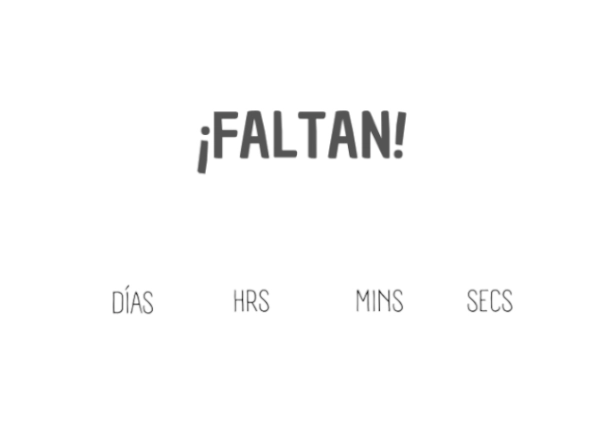
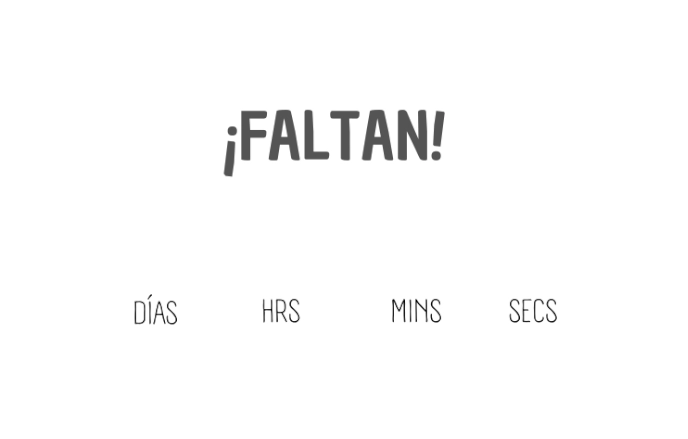
feat: Add latest changes

diff --git a/components/countdown2.js b/components/countdown2.js
@@ -1,0 +1,251 @@
+// components/countdown.js
+export function createCountdown({
+  target, // Date o string ej: '2026-01-15T00:00:00-06:00'
+  bgSrc = "./images/countdown-bg.png",
+  pill = {
+    // estilo de las “píldoras” (rosa)
+    height: "56px",
+    minWidth: "88px",
+    radius: "999px",
+    color: "#ffffff", // rosa
+    paddingInline: "16px",
+    gapDigits: "6px",
+  },
+  gapBetweenPills = "16px",
+  scaleWidth = "min(92vw, 720px)", // ancho máximo del componente
+  digitsPath = (d) => `./digits/${d}.webp`, // mapping a partir del dígito
+  zeroPad = { days: 2, hours: 2, minutes: 2, seconds: 2 }, // padding por campo
+  labels = ["Días", "Horas", "Minutos", "Segundos"], // solo si NO están en el fondo
+  showLabels = false, // déjalo en false si el fondo ya trae texto
+}) {
+  // Raíz
+  const root = document.createElement("div");
+  root.className = "cd-root";
+  root.style.setProperty("--cd-width", scaleWidth);
+  root.style.setProperty("--cd-gap-pills", gapBetweenPills);
+  root.style.setProperty("--cd-pill-h", pill.height);
+  root.style.setProperty("--cd-pill-minw", pill.minWidth);
+  root.style.setProperty("--cd-pill-radius", pill.radius);
+  root.style.setProperty("--cd-pill-color", pill.color);
+  root.style.setProperty("--cd-pill-padx", pill.paddingInline);
+  root.style.setProperty("--cd-digits-gap", pill.gapDigits);
+  // dentro de createCountdown, tras crear 'root'
+  const DESIGN_W = 720; // ancho base con el que hiciste el layout
+  function setScale() {
+    const w = root.clientWidth || DESIGN_W;
+    const k = Math.max(0.5, Math.min(2, w / DESIGN_W)); // límites opcionales
+    root.style.setProperty("--cd-scale", k);
+  }
+
+  // observa cambios de tamaño del componente
+  if (typeof ResizeObserver !== "undefined") {
+    const ro = new ResizeObserver(setScale);
+    ro.observe(root);
+  } else {
+    // fallback simple
+    window.addEventListener("resize", setScale);
+  }
+  setScale();
+
+  // Fondo
+  const bg = document.createElement("img");
+  bg.className = "cd-bg";
+  bg.src = bgSrc;
+  bg.alt = "";
+
+  bg.onload = () => {
+    // relación de aspecto del arte del fondo (evita saltos en iOS)
+    const w = bg.naturalWidth || 720;
+    const h = bg.naturalHeight || 430;
+    root.style.setProperty("--cd-ar", `${w} / ${h}`);
+
+    // Rectángulo (en %) donde va la fila de pastillas dentro del fondo
+    // Ajusta estos 4 números si tu PNG cambia: left, right, top, bottom (porcentaje).
+    root.style.setProperty("--cd-box-left", "8"); // % desde el borde izquierdo
+    root.style.setProperty("--cd-box-right", "8"); // % desde el borde derecho
+    root.style.setProperty("--cd-box-top", "43"); // % desde arriba
+    root.style.setProperty("--cd-box-bottom", "35"); // % desde abajo  => alto ≈ 22%
+  };
+
+  root.appendChild(bg);
+
+  // Capa de UI (píldoras + dígitos) — centrada sobre el fondo
+  const layer = document.createElement("div");
+  layer.className = "cd-layer";
+  root.appendChild(layer);
+
+  // 4 contenedores (píldoras)
+  const slots = ["days", "hours", "minutes", "seconds"].map(() => {
+    const pillEl = document.createElement("div");
+    pillEl.className = "cd-pill";
+    pillEl.setAttribute("role", "group");
+    pillEl.style.userSelect = "none";
+    pillEl.style.webkitUserDrag = "none";
+    layer.appendChild(pillEl);
+    return pillEl;
+  });
+
+  // Etiquetas (si no vienen en tu imagen de fondo)
+  if (showLabels) {
+    const labelsRow = document.createElement("div");
+    labelsRow.className = "cd-labels";
+    labels.forEach((text) => {
+      const span = document.createElement("span");
+      span.textContent = text;
+      labelsRow.appendChild(span);
+    });
+    root.appendChild(labelsRow);
+  }
+
+  // Render de un número con imágenes SVG por dígito
+  function renderNumber(pillEl, n, padTo) {
+    const str = String(n).padStart(padTo, "0");
+    // Limpia y vuelve a poner los dígitos
+    pillEl.replaceChildren();
+    const row = document.createElement("div");
+    row.className = "cd-digit-row";
+    for (const ch of str) {
+      const img = document.createElement("img");
+      img.className = "cd-digit";
+      img.src = digitsPath(ch);
+      img.alt = ch;
+      img.decoding = "async";
+      img.loading = "eager"; // o 'lazy' si prefieres
+      img.style.userSelect = "none";
+      img.style.webkitUserDrag = "none";
+      row.appendChild(img);
+    }
+    pillEl.appendChild(row);
+  }
+
+  // Lógica de tiempo
+  const targetTime =
+    target instanceof Date ? target.getTime() : new Date(target).getTime();
+
+  function tick() {
+    const now = Date.now();
+    let diff = Math.max(0, targetTime - now);
+
+    const days = Math.floor(diff / (1000 * 60 * 60 * 24));
+    diff -= days * (1000 * 60 * 60 * 24);
+    const hours = Math.floor(diff / (1000 * 60 * 60));
+    diff -= hours * (1000 * 60 * 60);
+    const minutes = Math.floor(diff / (1000 * 60));
+    diff -= minutes * (1000 * 60);
+    const seconds = Math.floor(diff / 1000);
+
+    renderNumber(slots[0], days, zeroPad.days ?? 2);
+    renderNumber(slots[1], hours, zeroPad.hours ?? 2);
+    renderNumber(slots[2], minutes, zeroPad.minutes ?? 2);
+    renderNumber(slots[3], seconds, zeroPad.seconds ?? 2);
+
+    if (targetTime - now <= 0) clearInterval(timer);
+  }
+
+  const timer = setInterval(tick, 1000);
+  tick(); // primer render inmediato
+
+  return root;
+}
+
+// —— CSS una sola vez
+const STYLE_ID = "cd-style";
+if (!document.getElementById(STYLE_ID)) {
+  const style = document.createElement("style");
+  style.id = STYLE_ID;
+  style.textContent = `
+.cd-root{
+  position: relative;
+  width: var(--cd-width, min(80vw, calc(var(--device-w, 430px) * 0.80)));
+  margin-inline: auto;
+  display: block;
+  user-select: none;
+  /* relación de aspecto igual al fondo (se setea en JS); fallback aproximado */
+  aspect-ratio: var(--cd-ar, 720 / 430);
+  --k: var(--cd-scale, 1);
+}
+
+.cd-bg{
+  position: absolute;
+  inset: 0;
+  width: 100%;
+  height: 100%;
+  object-fit: contain;   /* respeta márgenes del arte */
+  display: block;
+  pointer-events: none;
+  user-select: none;
+  -webkit-user-drag: none;
+}
+
+/* Capa con las pastillas centrada y con ajuste fino vertical */
+.cd-layer{
+  position: absolute;
+  left: 50%;
+  top: var(--cd-layer-top, 50%);   /* ajustable en JS: 50–56% según tu PNG */
+  transform: translate(-50%, -50%);
+  width: 100%;
+  height: auto;
+  display: flex;
+  align-items: center;
+  justify-content: center;
+  gap: calc(var(--k) * 32px);
+  max-width: 86%;                /* evita que toque los bordes dorados */
+}
+
+.cd-pill{
+  min-width: calc(var(--k) * 30px);
+  min-height: calc(var(--k) * 90px);
+
+  /* 👇 forma “panel” como la imagen */
+  border-radius: calc(var(--k) * 16px); /* o usa var(--cd-pill-radius) si prefieres */
+  padding-inline: calc(var(--k) * 16px);
+  background: var(--cd-pill-color, rgba(255,255,255));
+
+  /* sin borde dorado */
+  /*border: 1px solid rgba(255,255,255,.65);*/
+
+  /* look vidrio / papel */
+  backdrop-filter: blur(6px);
+  -webkit-backdrop-filter: blur(6px);
+
+  box-shadow:
+    0 1px 0 rgba(255,255,255,.55) inset,
+    0 10px 25px rgba(0,0,0,.12);
+
+  display:flex;
+  align-items: center;
+  justify-content: center;
+
+  /* opcional: para que se vea más “limpio” */
+  overflow: hidden;
+}
+
+
+.cd-digit-row{
+  display: flex;
+  align-items: center;
+  justify-content: center;
+  gap: 0;
+  max-height: calc(var(--k) * 10px);
+}
+
+.cd-digit{
+  max-height: calc(var(--k) * 30px);
+  width: auto;
+  display: block;
+  object-fit: contain;
+}
+
+.cd-labels{
+  display:flex;
+  justify-content:center;
+  gap: clamp(calc(var(--k) * 12px), 5vmin, calc(var(--k) * 40px));
+  margin-top: calc(var(--k) * 10px);
+  font: 600 clamp(calc(var(--k) * 12px), 3.2vmin, calc(var(--k) * 16px))/1.3
+        ui-sans-serif, system-ui, -apple-system, "Segoe UI", Roboto, "Helvetica Neue", Arial;
+  opacity:.9;
+}
+
+  `;
+  document.head.appendChild(style);
+}

diff --git a/index.html b/index.html
@@ -4,7 +4,7 @@
 <head>
   <meta charset="utf-8" />
   <meta name="viewport" content="width=device-width, initial-scale=1" />
-  <title>Bautizo Adolfito</title>
+  <title>XV Fedra</title>
   <link rel="icon" type="image/x-icon" href="./images/icon.png" />
   <style>
     :root {
@@ -35,7 +35,7 @@
   <script type="module">
     import { createHeroBlock } from './blocks/hero.js';
     import { createStack } from './blocks/stack.js';
-    import { createCountdown } from './components/countdown.js';
+    import { createCountdown } from './components/countdown2.js';
     import { initParallax, initReveal } from './lib/scrollEffects.js';
     import { initGuestModal } from './components/guestModal.js';
     import { initAudioPlayer } from './components/audioPlayer.js';
@@ -237,7 +237,7 @@
                 zeroPad: { days: 2, hours: 2, minutes: 2, seconds: 2 },
                 //showLabels: true,
                 // clave: atarlo a tu "device width"
-                scaleWidth: 'min(80vw, calc(var(--device-w, 430px) * 0.90))',
+                scaleWidth: 'min(80vw, calc(var(--device-w, 430px)))',
                 
               })
             },

diff --git a/components/guestModal.js b/components/guestModal.js
@@ -146,7 +146,7 @@ body.modal-open{ overflow:hidden; touch-action:none; }
     <div class="gm-content">
       <form id="guest-form" novalidate>
         <h3 style="margin:4px 0 8px 0;">Confirmación de asistencia</h3>
-        <p style="margin:0 0 12px 0;">Por favor ayúdanos a confirmar tu asistencia antes del 5 de febrero.</p>
+        <p style="margin:0 0 12px 0;">Por favor ayúdanos a confirmar tu asistencia antes del 10 de febrero.</p>
 
         <div class="field">
           <label>¿Asistirás?</label>
